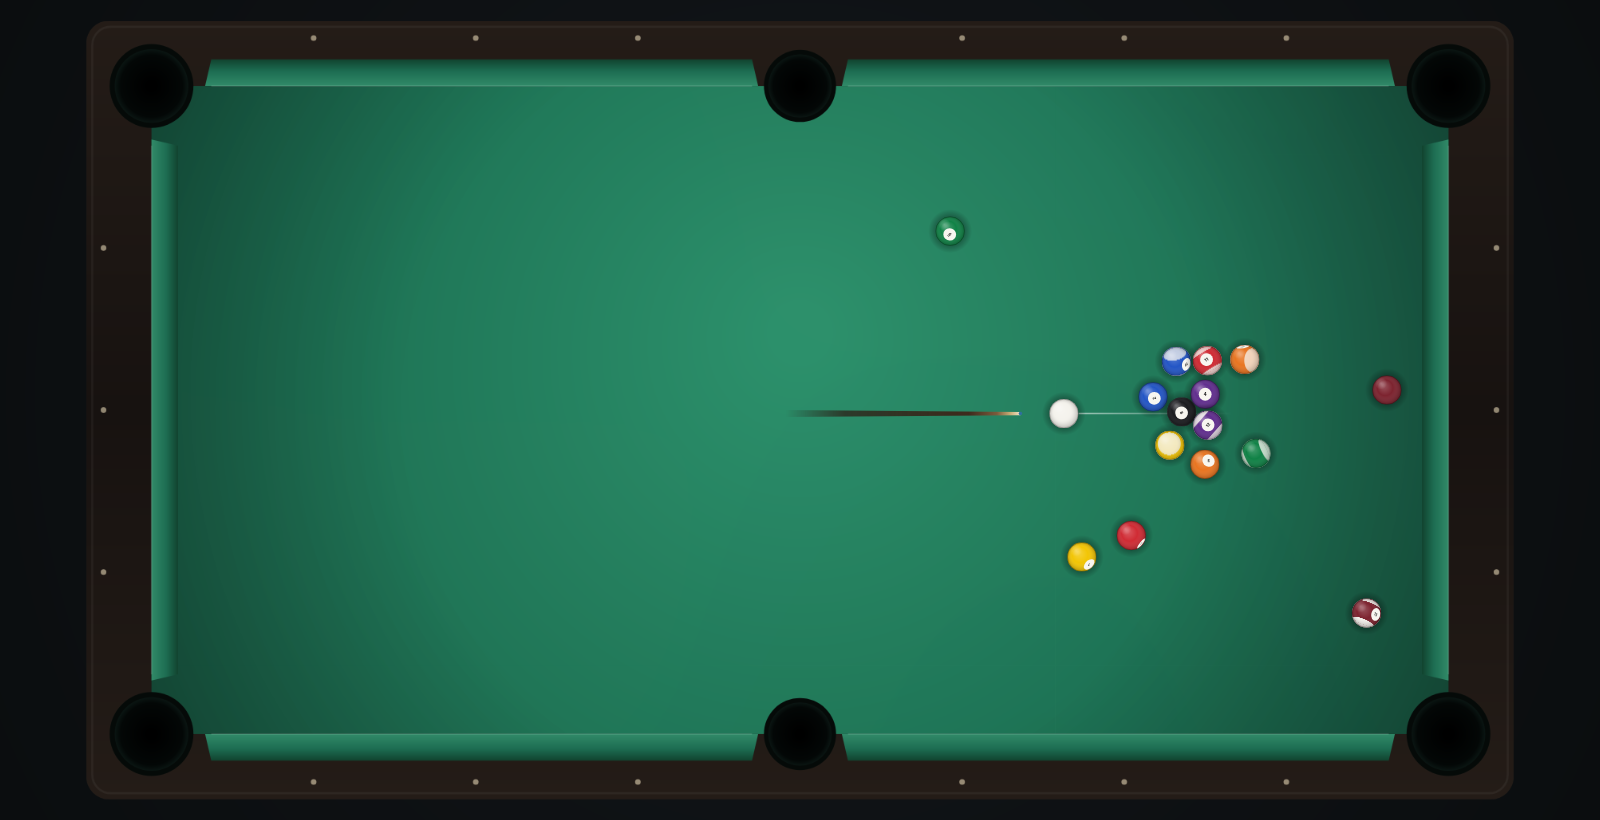
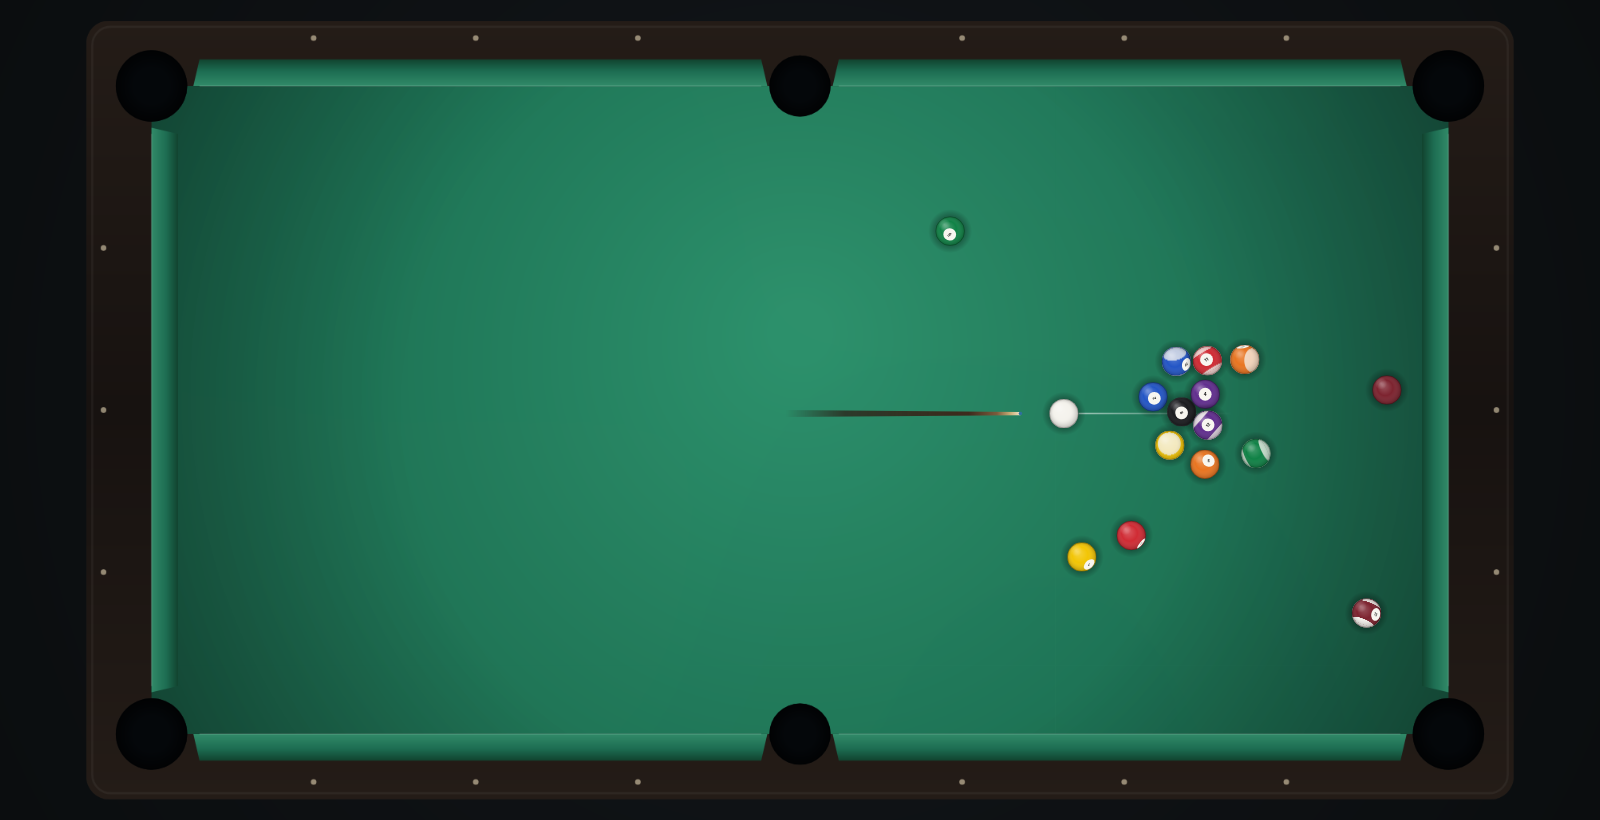
Pocket mouths to real proportions, cushions on the correct side of the edge
Corner mouth is CORNER_GAP*sqrt(2) = 116mm against 115mm on a real 9ft table; side mouth 128mm against 127mm. Cushions now sit outside the playing edge so a resting ball touches the nose instead of sinking into the rail.

diff --git a/src/render/scene.ts b/src/render/scene.ts
@@ -173,18 +173,17 @@ function buildTable(): HTMLCanvasElement {
   // --- pockets ---
   POCKETS.forEach((p, i) => {
     const corner = i < 4;
-    const r = corner ? 0.072 : 0.062;
-    // throat: lets the hole read as a cut in the table rather than a sticker
-    g.fillStyle = '#050a08';
+    const r = corner ? 0.070 : 0.060;
+
+    g.fillStyle = '#04070a';
     g.beginPath();
-    g.arc(p.x, p.y, r * 1.14, 0, TAU);
+    g.arc(p.x, p.y, r, 0, TAU);
     g.fill();
 
-    const hole = g.createRadialGradient(p.x, p.y, r * 0.12, p.x, p.y, r);
-    hole.addColorStop(0, '#000000');
-    hole.addColorStop(0.82, '#030706');
-    hole.addColorStop(1, '#0a1512');
-    g.fillStyle = hole;
+    const lip = g.createRadialGradient(p.x, p.y, r * 0.5, p.x, p.y, r);
+    lip.addColorStop(0, 'rgba(0,0,0,0)');
+    lip.addColorStop(1, 'rgba(0,0,0,0.7)');
+    g.fillStyle = lip;
     g.beginPath();
     g.arc(p.x, p.y, r, 0, TAU);
     g.fill();

diff --git a/src/core/constants.ts b/src/core/constants.ts
@@ -33,10 +33,14 @@ export const HALF_W = TABLE_W / 2;
  */
 export const RAIL_H = 0.27 * BALL_R;
 
-/** Cushion stops this far from a corner pocket. */
-export const CORNER_GAP = 0.105;
-/** Cushion stops this far either side of a side pocket. */
-export const SIDE_GAP = 0.082;
+/**
+ * Cushion stops this far from a corner pocket, measured along each rail. The
+ * mouth across the corner is CORNER_GAP * sqrt(2) = 116mm, close to the 115mm
+ * of a real 9ft table.
+ */
+export const CORNER_GAP = 0.082;
+/** Half the side pocket mouth: 128mm across, against 127mm on a real table. */
+export const SIDE_GAP = 0.064;
 /** Radius of the rounded jaw at the end of each cushion. Sharp, like a cut. */
 export const JAW_R = 0.004;
 
